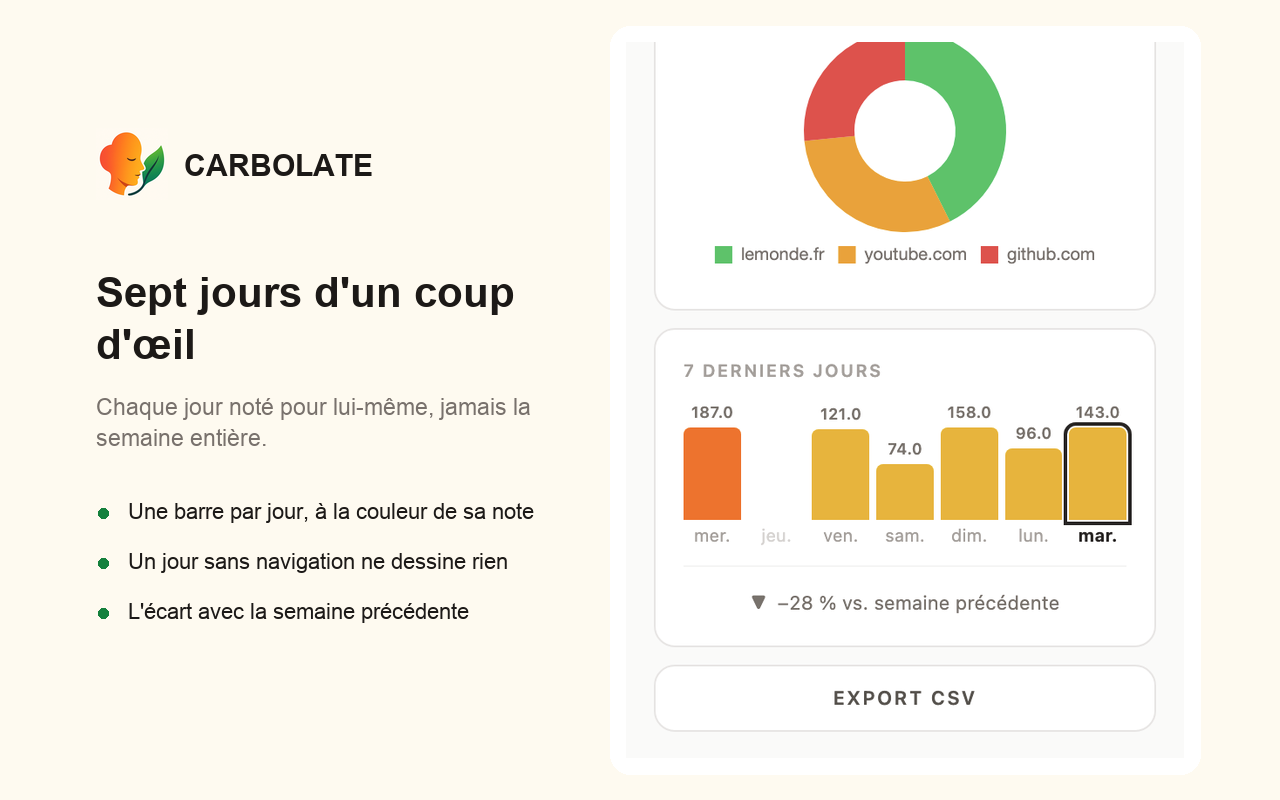
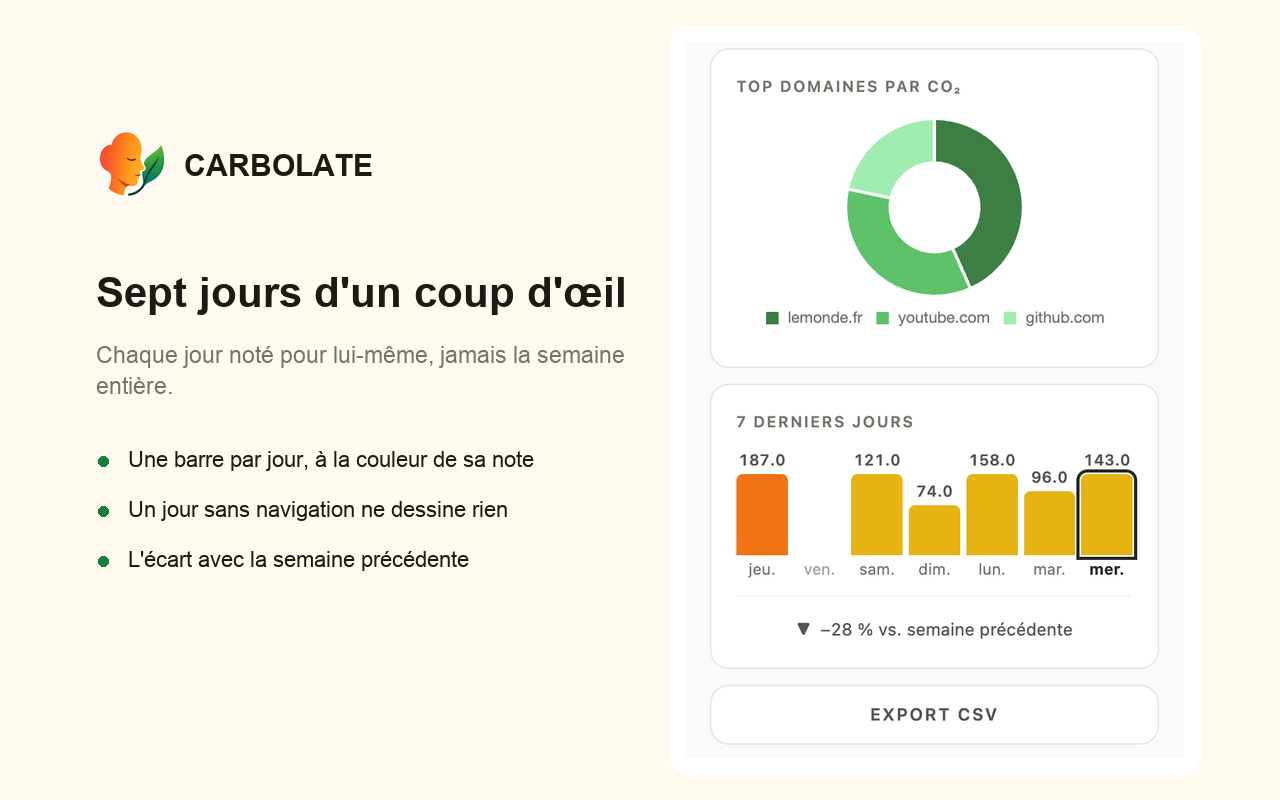
docs(store): regenerate the listing screenshots with the green domain palette

diff --git a/scripts/compose-store-assets.py b/scripts/compose-store-assets.py
@@ -6,14 +6,22 @@ what keeps real browsing domains off a public listing. Regenerate with:
 
     npm run build
     python3 -m http.server 5274 --directory dist &
-    # render dist/store-shot.html and dist/store-shot-en.html at 2x into the
-    # paths below, then:
-    python3 scripts/compose-store-assets.py
+    # render dist/store-shot.html and dist/store-shot-en.html at 2x, 500px wide,
+    # into <render dir>/panel-fr.png and panel-en.png, then:
+    python3 scripts/compose-store-assets.py <render dir>
 """
 
 from PIL import Image, ImageDraw, ImageFont
 import pathlib
-S = "/private/tmp/claude-501/-Users-lucaslaurens-Documents-projects-carbolate/69f00603-a118-4128-ba55-7611feb0caca/scratchpad"
+import sys
+
+S = sys.argv[1]
+# Top of the second screenshot, in 2x render pixels: the lower half of the domain
+# chart, so the week card reads as the panel's continuation. Re-measure it when
+# the panel above the week card changes height.
+WEEK_CROP_TOP = 980
+# Cut above the footer email, which would otherwise be sliced by the frame.
+FOOTER_CROP = 100
 OUT = pathlib.Path("store-assets")
 CREAM, INK, MUTED, GREEN = (254, 250, 240), (28, 25, 23), (120, 113, 108), (21, 128, 61)
 BOLD = "/System/Library/Fonts/Supplemental/Arial Bold.ttf"
@@ -73,9 +81,10 @@ def compose(panel, title, sub_head, sub_tail, bullets, out):
 
     for line in bullets:
         draw.ellipse((98, y + 9, 108, y + 19), fill=GREEN)
-        for i, part in enumerate(wrap(draw, line, font(REG, 22), width - 40)):
+        parts = wrap(draw, line, font(REG, 22), width - 40)
+        for i, part in enumerate(parts):
             draw.text((128, y + i * 30), part, font=font(REG, 22), fill=INK)
-        y += 50
+        y += 30 * len(parts) + 20
     canvas.save(out)
 
 COPY = {
@@ -105,7 +114,7 @@ for lang in ("en", "fr"):
     crop = full.crop((0, 0, edge + 1, bottom + 14))
     first, second = COPY[lang]
     compose(crop, *first, OUT / ("screenshot-1-today-" + lang + ".png"))
-    compose(crop.crop((0, 1090, crop.width, crop.height - 48)), *second, OUT / ("screenshot-2-week-" + lang + ".png"))
+    compose(crop.crop((0, WEEK_CROP_TOP, crop.width, crop.height - FOOTER_CROP)), *second, OUT / ("screenshot-2-week-" + lang + ".png"))
 
 # ── promo tiles ───────────────────────────────────────────────────────────
 mark = Image.open("assets/logo-master-1024.png").convert("RGB").crop((136, 114, 925, 904))

diff --git a/store-assets/README.md b/store-assets/README.md
@@ -27,5 +27,8 @@ a capture of genuine browsing would not.
 
 `scripts/compose-store-assets.py` composes the canvases from two renders of the panel. The renders
 themselves come from `dist/store-shot.html` / `store-shot-en.html`, throwaway pages that stub
-`chrome.*` and seed the storage. Rebuild them whenever the panel changes shape — a screenshot that
-no longer matches the product is a review risk, not a cosmetic one.
+`chrome.*` and seed the storage. Render both at 2x in a 500px-wide window (headless Chrome clamps
+narrower windows), save them as `panel-fr.png` / `panel-en.png` in one folder, and pass that folder:
+`python3 scripts/compose-store-assets.py <folder>`. Rebuild them whenever the panel changes shape — a
+screenshot that no longer matches the product is a review risk, not a cosmetic one. If the height
+above the week card changes, re-measure `WEEK_CROP_TOP` in the script.
